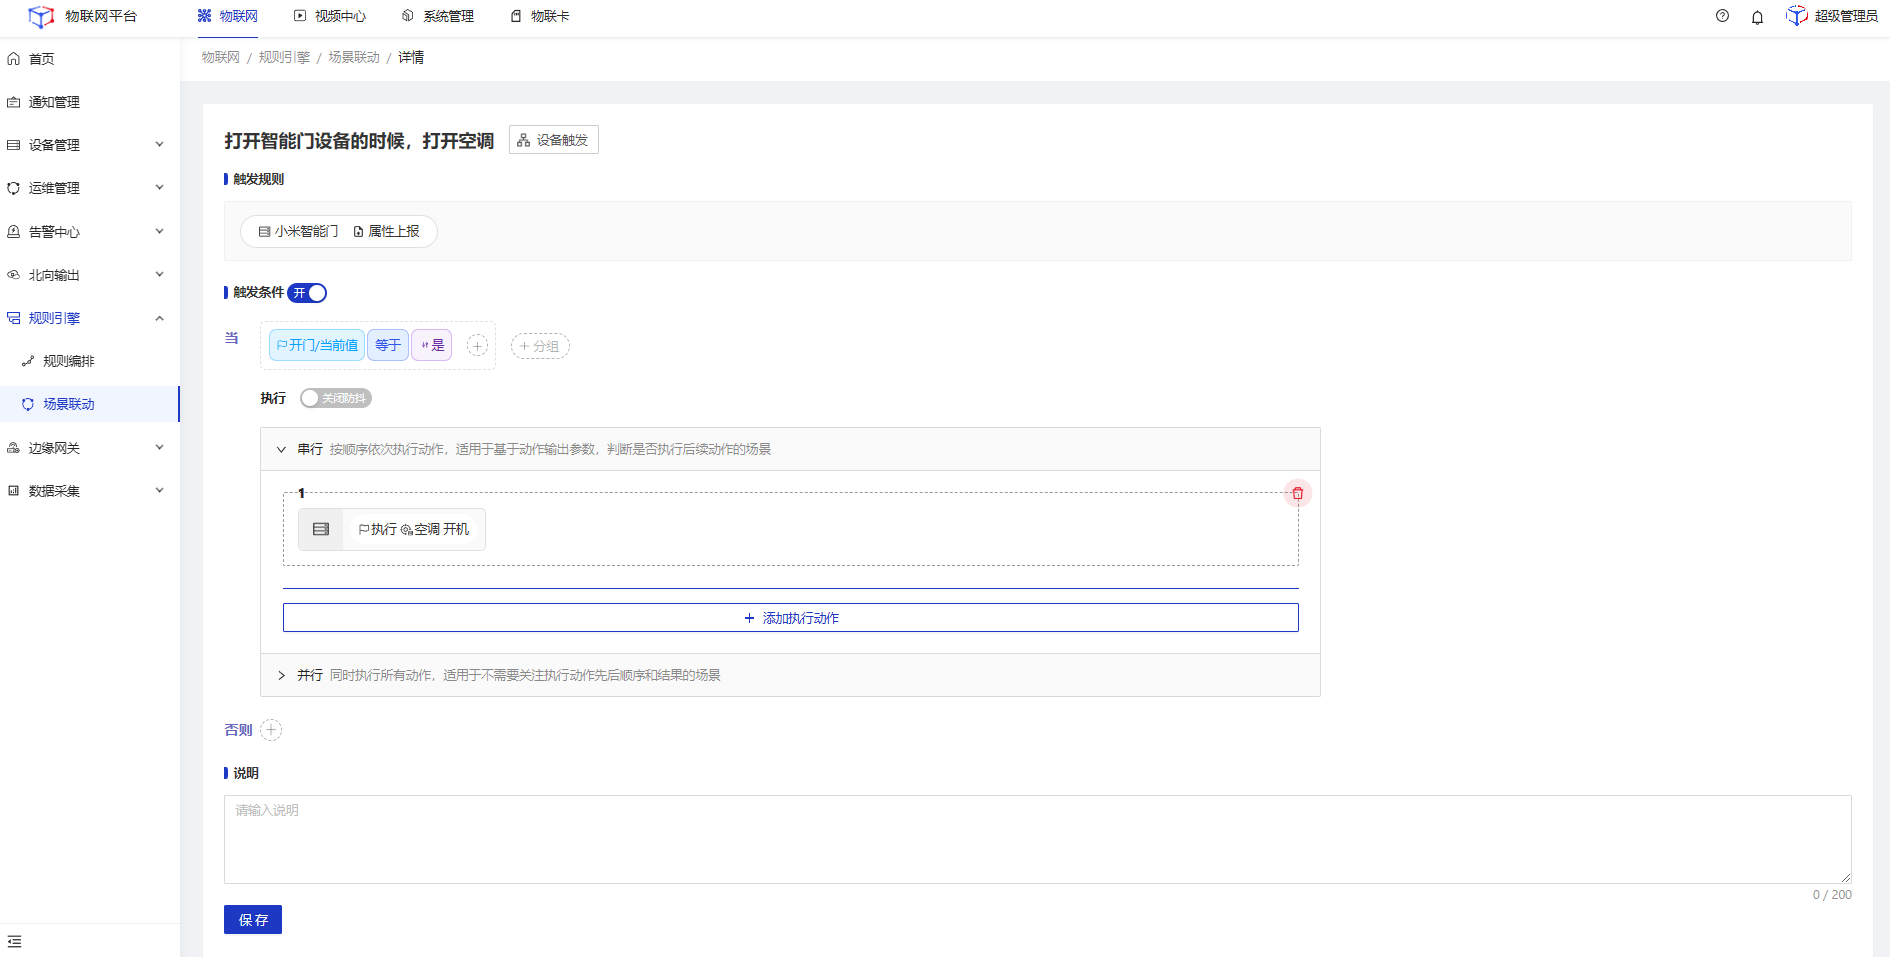
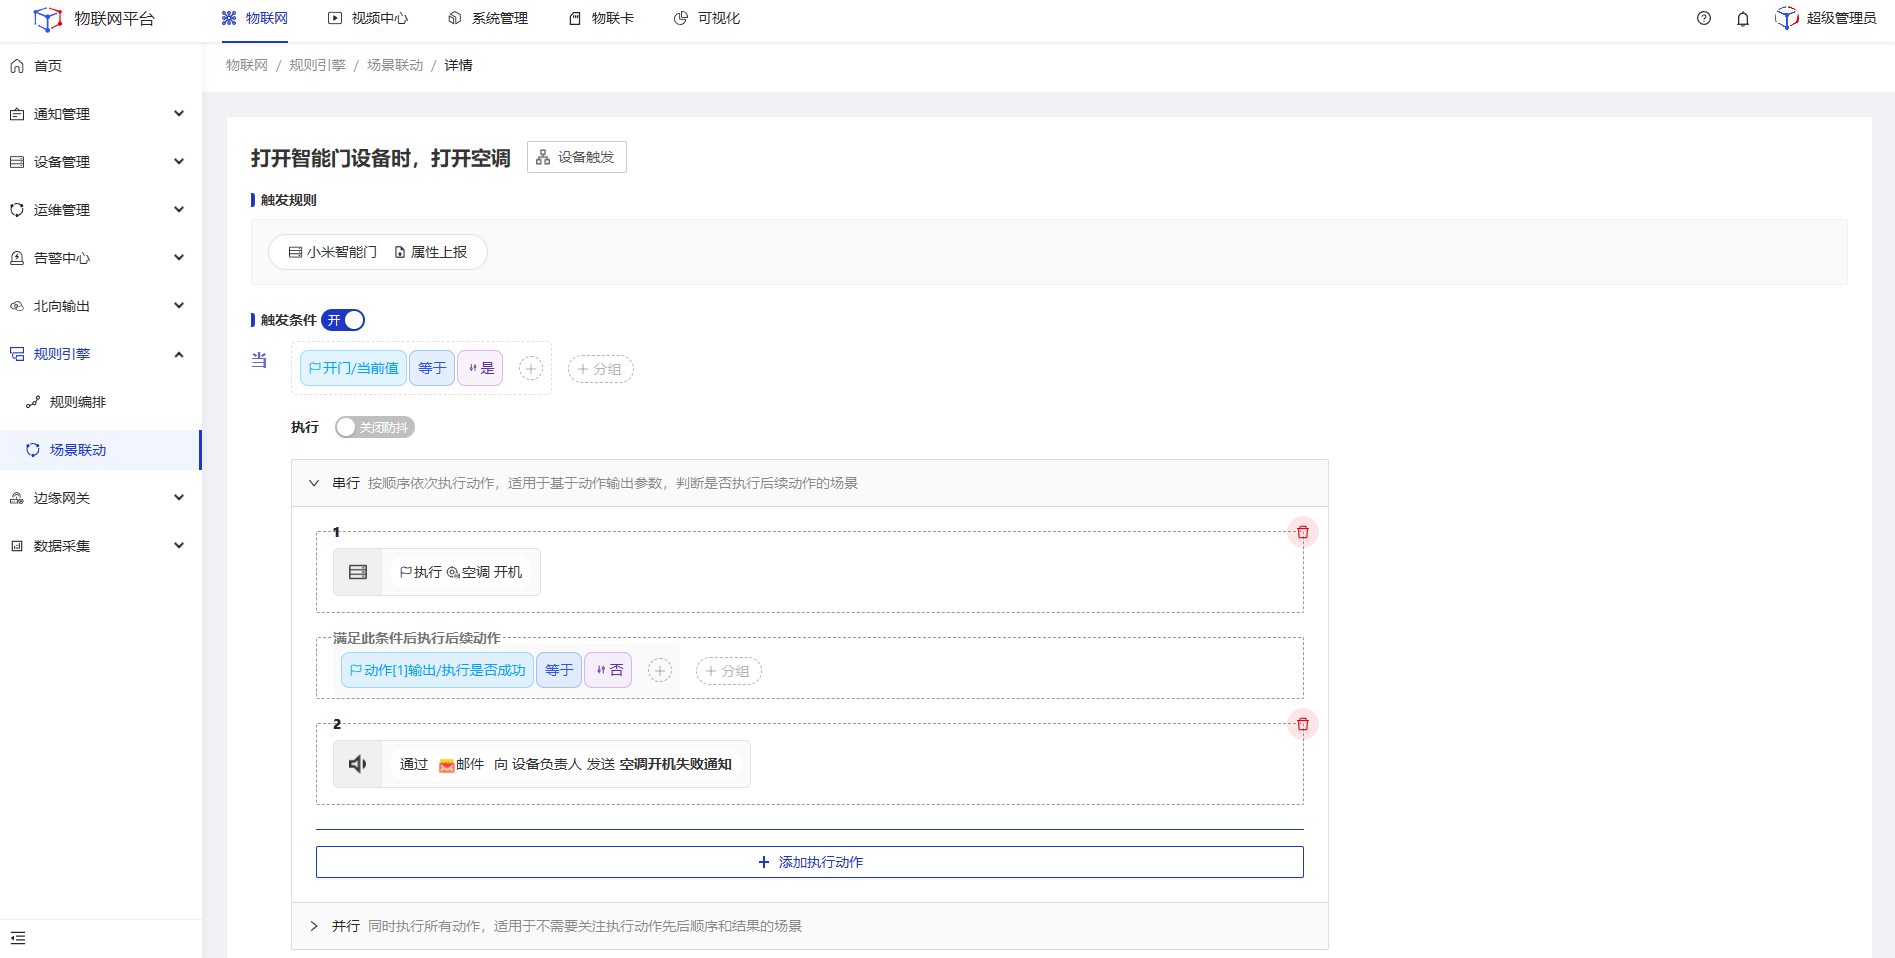
场景联动操作手册提交

diff --git a/Best_practices/Scene_linkage.md b/Best_practices/Scene_linkage.md
@@ -6,7 +6,7 @@
     <span class='iconfont icon-jinggao explanation-icon'></span>
     <span class='explanation-title font-weight'>注意</span>
   </p>
- 场景联动规则仅支持以<span style='font-weight:600'>产品物模型</span>进行配置，不支持以<span style='font-weight:600'>设备物模型</span>进行配置。
+ 设备触发-触发规则中选择<span style='font-weight:600'>单个固定设备</span>时，支持以设备物模型进行配置。其他情况仅支持以<span style='font-weight:600'>产品物模型</span>进行配置。
 </div>
 
 ## 手动触发
@@ -31,6 +31,9 @@
 ![](./img/manual-preservation.png)
 4.在**场景联动**列表页点击**手动触发**，执行空调开机动作。
 ![](./img/click-manual.png)
+5.在设备**日志管理**中可查看具体日志数据。
+![](./img/manual-log.png)
+
 
 ## 定时触发
 适用于定时向具体下发指令执行规定动作。支持按周、按月、按Corn表达式3种方式配置频率。</br>
@@ -55,18 +58,22 @@
 ![](./img/timing-action2.png)
 5.点击页面底部**保存**。
 ![](./img/timing-preservation.png)
+6.场景触发后，可在设备**日志管理**中可查看具体日志数据。
+![](./img/manual-log.png)
 
 ## 设备触发
 适用于多个不同设备间执行动作的联动。</br>
-**例如**：打开智能门设备的时候，打开空调。
+**例如**：打开智能门设备的时候，打开空调，若空调打开失败，则给空调的设备负责人发送邮件通知。
 
 #### 前置条件
-1.已经创建好智能门、空调产品。参见[创建产品](../Device_access/Create_product3.1.md)</br>
+1.已经创建好智能门、空调产品。参见[创建产品](../Device_access/Create_product3.1.md)。</br>
 2.已经创建好智能门设备、空调设备。参见[创建设备](../Device_access/Create_Device3.2.md)。</br>
 3.通过MQTT协议将设备接入平台。参见[设备接入](../Best_practices/Device_access.md)。</br>
 4.物模型中已经定义了空调产品具有开机功能。配置示例如下：
 ![](./img/tls-star.png)
 ![](./img/tls-on.png)
+5.已在**关系配置**中配置了**设备负责人**。并给空调设备绑定了对应的负责人。参见[系统设置-关系配置](../System_settings/System_settings.md)。</br>
+6.已在**通知管理**中配置了邮件通知模板与邮件通知配置。参见[通知管理](../Best_practices/Notification_management.md)。
 
 
 #### 操作步骤
@@ -78,5 +85,20 @@
 ![](./img/218.png)
 4.**串行**动作中，点击添加执行动作，选择**设备输出**，产品选择**空调**，然后选择需要执行动作的**具体设备**，再选择**功能调用**，选择**开机**，设置值为true，然后点击**确定**。
 ![](./img/219.png)
-5.点击页面底部**保存**。
+5.**串行**动作中，点击添加执行动作，选择**消息通知**，通知方式选择**邮件**，然后选择**通知配置**、**通知模板**，填写**模板变量**（可选，基于模板配置动态显示），收信人字段选择**关系用户-设备负责人**，然后点击**确定**。
+![](./img/device-notice.png)
+
+<div class='explanation warning'>
+  <p class='explanation-title-warp'>
+    <span class='iconfont icon-jinggao explanation-icon'></span>
+    <span class='explanation-title font-weight'>注意</span>
+  </p>
+ 若引用的通知模板中已固定了收信人，则模板变量中将不再显示该字段。
+</div>
+
+6.点击动作1与动作2之间的**添加过滤条件**按钮，参数选择**动作1-执行是否成功**，操作符选择**等于**，值选择**否**。
+![](./img/Conditional-filtering.png)
+7.点击页面底部**保存**。
 ![](./img/220.png)
+8.场景触发后，可在设备**日志管理**中可查看具体日志数据。
+![](./img/manual-log.png)

diff --git a/Best_practices/Alarm_Center.md b/Best_practices/Alarm_Center.md
@@ -1,5 +1,5 @@
 # 告警中心
-设备告警是平台的核心功能之一，该功能需关联场景联动进行配置。本文以温度计温度超过阀值进行告警作为示例。
+设备告警是平台的核心功能之一，该功能需关联场景联动进行配置。本文以温度计温度超过指标值进行告警作为示例。
 
 ### 前置条件
 1.平台内已创建好温度计产品。</br>
@@ -10,11 +10,15 @@
 1.**登录**Jetlinks物联网平台，进入**规则引擎>场景联动**菜单，点击**新增**，弹出弹框，填写名称，选择触发方式为**设备触发**，点击**确定**跳转至详情页。</br>
 ![](./img/300.png)
 2.点击**触发规则**，在弹框页选择温度计产品，选择具体设备，触发类型选择**属性上报**，然后点击**确定**。
-![](./img/300.png)
-
+![](./img/301.png)
+3.配置触发条件当温度大于指标值
+![](./img/302.png)
+4.点击**添加执行动作**，选择**触发告警**，然后点击**确定**。
+![](./img/303.png)
+5.点击底部**保存**按钮。
 
 #### 二、配置一个告警规则
-1.**登录**Jetlinks物联网平台，进入**告警中心>基础配置**菜单，填写告警级别信息。</br>
+1.**登录**Jetlinks物联网平台，进入**告警中心>告警配置**菜单，填写告警级别信息。</br>
 ![](./img/247.png)
 2.选择**规则引擎>场景联动**菜单，点击**新增**按钮，进入详情页配置触发告警的规则。规则配置支持2种方式</br>
 <li>手动输入具体触发值。</li>
